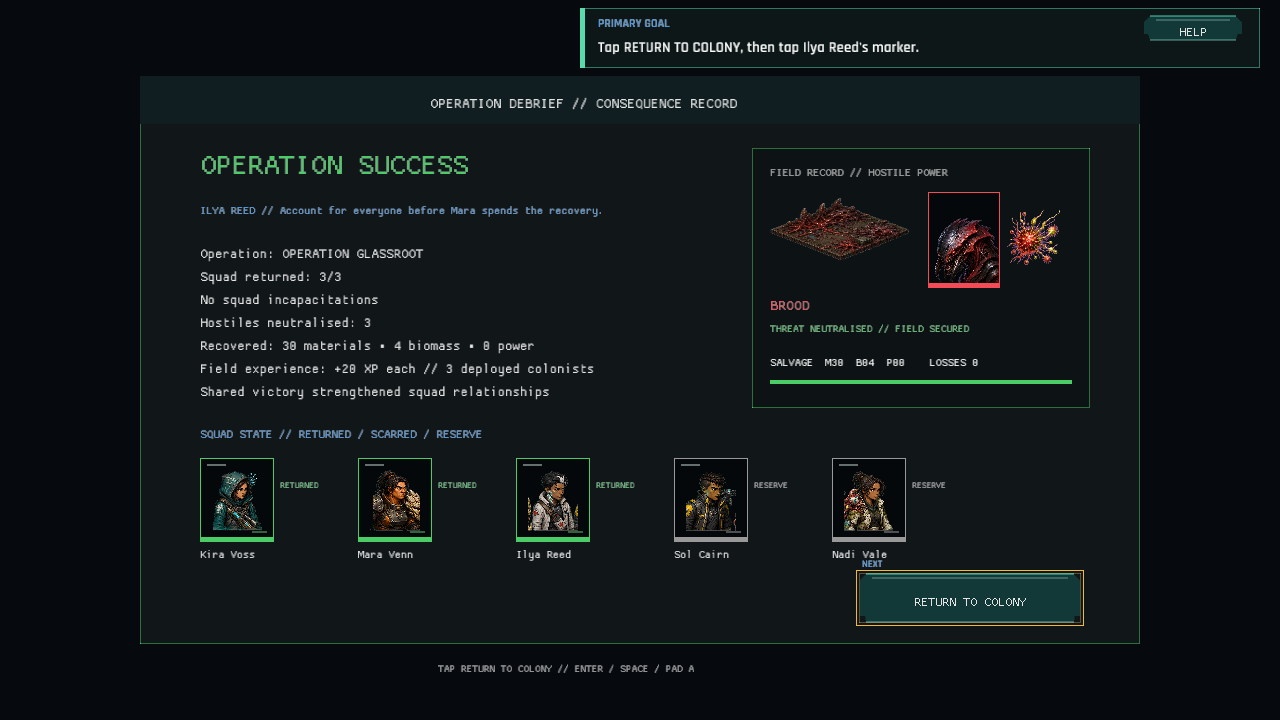
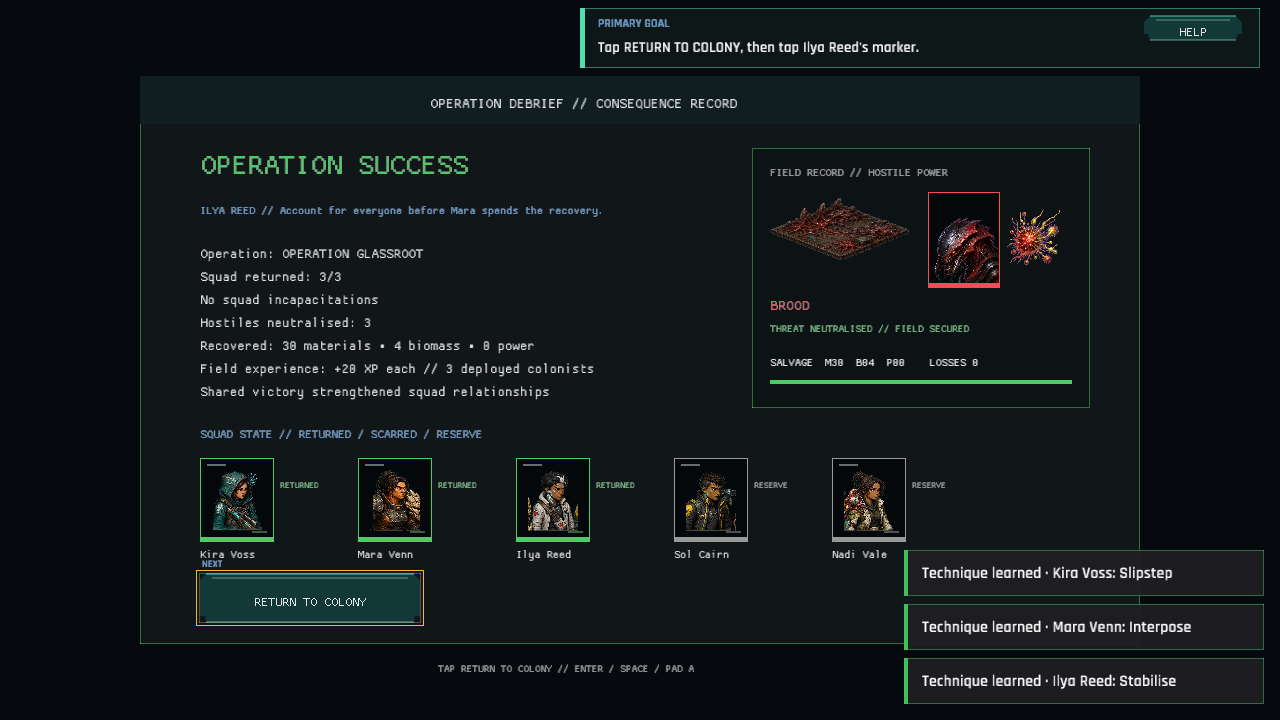
The squad keeps its new lessons after the storm (debrief technique feedback)
Operation XP already auto-learned eligible techniques, but the returned report was discarded and the player had to discover the change later in the roster. Preserve that report through debrief, use colonist display names, and keep the return control clear of the multi-entry feedback stack. Refresh the debrief evidence and record the 1.198.0 no-schema-change update.

Changed region(s): [[0.6562, 0.7639, 0.9375, 0.9778], [0.1562, 0.7639, 0.3438, 0.8861]]

diff --git a/src/campaign.rs b/src/campaign.rs
@@ -446,7 +446,7 @@ impl CampaignState {
         outcome: &MissionOutcome,
         mission: &MissionInstance,
         data: &GameData,
-    ) {
+    ) -> Vec<String> {
         let deployed_ids = self
             .roster
             .iter()
@@ -509,11 +509,13 @@ impl CampaignState {
                 character.level = 1 + (character.experience / 100).min(9) as u8;
             }
         }
-        crate::skill_training::learn_after_operation(self, &deployed_ids, data);
+        let learned_techniques =
+            crate::skill_training::learn_after_operation(self, &deployed_ids, data);
         self.apply_injury_consequences(outcome, data);
         self.refresh_contact_completion(data);
         self.refresh_adaptation_completion(data);
         self.refresh_escalation_completion(data);
+        learned_techniques
     }
 
     pub fn resolve_first_character_event(&mut self, data: &GameData) -> Result<String, String> {

diff --git a/src/game/capture_debrief.rs b/src/game/capture_debrief.rs
@@ -13,7 +13,22 @@ impl Game {
                 unit.health = 0;
             }
         }
+        let deployed_ids = self.session.deployed_colonist_ids();
+        for character in &mut self.campaign.roster {
+            if deployed_ids.iter().any(|id| id == &character.id) {
+                character.experience = 20;
+            }
+        }
+        let learned_techniques = crate::skill_training::learn_after_operation(
+            &mut self.campaign,
+            &deployed_ids,
+            &self.data,
+        );
         self.last_outcome = self.session.mission_outcome(&self.active_mission);
+        for technique in learned_techniques {
+            self.notifications
+                .success(format!("Technique learned · {technique}"));
+        }
         self.campaign.first_hour.stage = crate::first_hour::FirstHourStage::FirstReturn;
         self.state = AppState::Debrief;
     }

diff --git a/src/game/debrief_flow.rs b/src/game/debrief_flow.rs
@@ -14,7 +14,7 @@ impl Game {
                 .selected_mission()
                 .expect("a deployed mission remains selected")
                 .clone();
-            self.campaign.apply_mission_outcome(
+            let learned_techniques = self.campaign.apply_mission_outcome(
                 self.last_outcome.as_ref().expect("outcome was just stored"),
                 &mission,
                 &self.data,
@@ -22,6 +22,10 @@ impl Game {
             self.record_first_hour_outcome();
             self.state = AppState::Debrief;
             self.autosave_current("Debrief autosaved");
+            for technique in learned_techniques {
+                self.notifications
+                    .success(format!("Technique learned · {technique}"));
+            }
         }
     }
 }

diff --git a/src/skill_training.rs b/src/skill_training.rs
@@ -95,6 +95,7 @@ pub(crate) fn learn_after_operation(
         else {
             continue;
         };
+        let character_name = character.name.clone();
         let Some(class) = data
             .classes
             .iter()
@@ -115,7 +116,7 @@ pub(crate) fn learn_after_operation(
             .collect::<Vec<_>>();
         for skill_id in eligible {
             if let Ok(name) = campaign.learn_skill(character_id, &skill_id, data) {
-                learned.push(format!("{}: {}", character_id, name));
+                learned.push(format!("{}: {}", character_name, name));
             }
         }
     }

diff --git a/src/skill_training/tests.rs b/src/skill_training/tests.rs
@@ -116,3 +116,15 @@ fn simulation_hall_opens_technique_trials_before_their_normal_threshold() {
         .learn_skill("kira_voss", "slipstep", &data)
         .unwrap();
 }
+
+#[test]
+fn operation_learning_report_uses_the_colonist_display_name() {
+    let data = GameData::load().unwrap();
+    let mut campaign = CampaignState::new(&data);
+    campaign.roster[0].experience = 20;
+
+    let learned = super::learn_after_operation(&mut campaign, &["kira_voss".to_owned()], &data);
+
+    assert_eq!(learned, vec!["Kira Voss: Slipstep"]);
+    assert!(!learned[0].contains("kira_voss"));
+}

diff --git a/src/first_hour_ui/tests.rs b/src/first_hour_ui/tests.rs
@@ -23,7 +23,7 @@ fn debrief_return_button_stays_inside_the_result_panel() {
     let button = debrief_return_button_bounds();
     let panel = Rect::new(140.0, 76.0, 1000.0, 568.0);
 
-    assert_eq!(button, Rect::new(860.0, 574.0, 220.0, 48.0));
+    assert_eq!(button, Rect::new(200.0, 574.0, 220.0, 48.0));
     assert!(button.x >= panel.x);
     assert!(button.y >= panel.y);
     assert!(button.right() <= panel.right());

diff --git a/src/first_hour_ui.rs b/src/first_hour_ui.rs
@@ -25,7 +25,7 @@ pub(crate) fn draw(progress: &FirstHourProgress, mouse: Vec2, actions: &mut Vec<
 }
 
 pub(crate) fn debrief_return_button_bounds() -> Rect {
-    Rect::new(860.0, 574.0, 220.0, 48.0)
+    Rect::new(200.0, 574.0, 220.0, 48.0)
 }
 
 fn begin_arrival_button_bounds() -> Rect {

diff --git a/docs/verification/FINAL_CAPTURE_INVENTORY.md b/docs/verification/FINAL_CAPTURE_INVENTORY.md
@@ -31,6 +31,7 @@ Manifest: `scripts/capture_ui.ps1`
 - `ui_first_hour_promise.png`: the promise beat distinguishes a hardened outer route from a second-operation breach and focuses CONTINUE CAMPAIGN before continuation.
 - `ui_first_hour_operations.png`: guided colony handoff keeps the next mission briefing and active preparation visible inside the open Operations drawer.
 - `ui_battle_log.png` and `ui_phase_replay.png`: attack history and hostile replay beats use readable display names, name HIT/MISS outcomes with immediate damage consequences, and the battle log distinguishes ability, recovery, status, objective, and cover events with matching counts on each filter.
+- `ui_debrief.png`: the operation result keeps rewards and squad consequences visible while the notification stack names each automatic technique learned by a readable colonist name.
 - `ui_combat_feedback.png`: hit, miss, critical, damage, recovery, objective, and cover callouts remain anchored to their affected field locations and stack clear of unit effects.
 - `ui_construction.png`: placement blueprint and reserved resources remain visible at fixed building scale.
 
@@ -136,5 +137,5 @@ Manifest: `scripts/capture_ui.ps1`
[6 lines of base64/hex data omitted]

diff --git a/docs/PHASE_1_ACCEPTANCE_MATRIX.md b/docs/PHASE_1_ACCEPTANCE_MATRIX.md
@@ -1,7 +1,7 @@
 # Phase 1 Acceptance Matrix
 
 Status: implementation evidence audited; observed-session gates pending
-Audit baseline: save/content 1.197.0, validated and committed with this matrix
+Audit baseline: save/content 1.198.0, validated and committed with this matrix
 
 This matrix maps every Phase 1 workstream and definition-of-done requirement to
 authoritative evidence. `VERIFIED` means code, tests, captures, or an operator-run path
@@ -83,7 +83,7 @@ remain observed-session requirements.
 | Investment changes operation two | Armour, accuracy, or movement bonus plus unit test | VERIFIED |
 | Unavailable choices explain prerequisites | Warning text and lock reasons across first-hour surfaces | VERIFIED |
 | Defeat/injury cannot deadlock economy | Emergency 24-material reserve and recovery tests | VERIFIED |
-| XP, injury, relationships, equipment, and resources visible then inspectable | Debrief plus roster/loadout/colony surfaces | VERIFIED |
+| XP, automatic technique learning, injury, relationships, equipment, and resources visible then inspectable | Debrief notification plus roster/loadout/colony surfaces | VERIFIED |
 | Advanced systems hidden until promise | Deferred list and stage-aware controls | VERIFIED |
 
 Recall of gains, spending, and benefit—and perceived balance among the choices—requires

diff --git a/TECHNICAL_DESIGN.md b/TECHNICAL_DESIGN.md
@@ -2,7 +2,7 @@
 
 Status: systems-rich tech demo; playable-game refinement in progress
 Current production target: cohesive first-hour playable build
-Save/content version: 1.197.0
+Save/content version: 1.198.0
 Target platforms: Windows and browser/WASM
 Runtime: Rust 2021, Macroquad, macroquad-toolkit
 
@@ -973,6 +973,7 @@ Migration coverage:
 | 1.195.0 | Battle-history filter buttons now show live matching-event counts so category availability is visible before opening a filter; no new save fields |
 | 1.196.0 | Hostile replay beats now pair attacks with immediate damage or incapacitation results while keeping objective and cover consequences chronological; no new save fields |
 | 1.197.0 | Tactical event summaries now title-case internal identifiers so battle history and hostile replay use readable display names; no new save fields |
+| 1.198.0 | Automatic post-operation technique learning now reports each readable colonist and technique in the debrief notification stack; no new save fields |
 
 Every future schema bump must migrate the immediately previous version and add a
 fixture test. Validate saved content IDs before adding content removal or renaming.

diff --git a/docs/verification/UI_GRAPHICS_ACCEPTANCE_MATRIX.md b/docs/verification/UI_GRAPHICS_ACCEPTANCE_MATRIX.md
@@ -160,7 +160,7 @@ Each row must have a post-overhaul PNG in the final capture directory and pass t
 | weapon_profile | Tactical/equipment | Profile is text-only | `ui_weapon_profile.png` | PASS |
 | class_target | Tactical/class action | Targeting cue remains rectangular | `ui_class_target.png` | PASS |
 | breach | Tactical/cover feedback | Breach effect lacks authored impact | `ui_breach.png` | PASS |
-| debrief | Debrief | Sparse outcome modal | `ui_debrief.png` | PASS |
+| debrief | Debrief | Sparse outcome modal omitted automatic technique-learning feedback | `ui_debrief.png` | PASS |
 | trauma_debrief | Debrief | Trauma consequence lacks portrait response | `ui_trauma_debrief.png` | PASS |
 
 ## D. Final comparison and validation record

diff --git a/docs/PHASE_1_HARDENING.md b/docs/PHASE_1_HARDENING.md
@@ -63,7 +63,8 @@ Status: automated and internal verification complete; external playtests pending
   field guide, guided tactical lesson, second-operation tactical lesson, actionable
   ability lesson, first-return recovery handoff, promise consequence, and colony handoff;
   debrief goal/result layering, fielded-versus-reserve squad disclosure including recruited
-  fielded colonists, recruited-roster list coverage, XP disclosure,
+  fielded colonists, recruited-roster list coverage, XP and automatic technique-learning
+  disclosure,
   enemy-phase readiness and replay-skip transitions, and forecast/first-hour layout changes
   replace their affected images.
 
